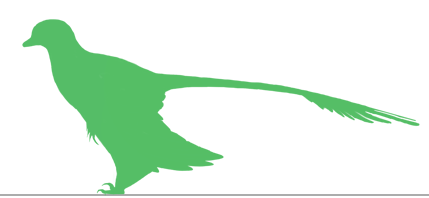
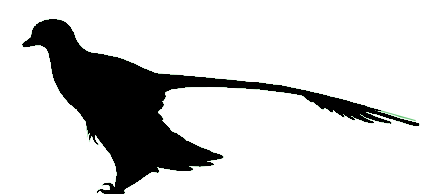
Making it prettier

Changed region(s): [[0.0, 0.0928, 1.0, 1.0]]

diff --git a/index.html b/index.html
@@ -3,9 +3,12 @@
         <title>DINOSAURS</title>
         <style>
         	body {
-        		width: 400%;
+        		width: 101%;
         		margin:0;
 				font-family: Helvetica, sans-serif;
+				filter: invert();
+				background: black;
+				color: white;
         	}
         	.container {
         		width: 100%;
@@ -39,13 +42,13 @@
         		width: 24%;
         	}
         	.size-7 {
-        		width: 30%;
+        		width: 28%;
         		margin:0;
         	}
         	.flip img{
         		transform: scaleX(-1);
         	}
-        	.shift-down {
+        	.shift-down img {
         	  margin-bottom: -4%;
         	}
 			img {
